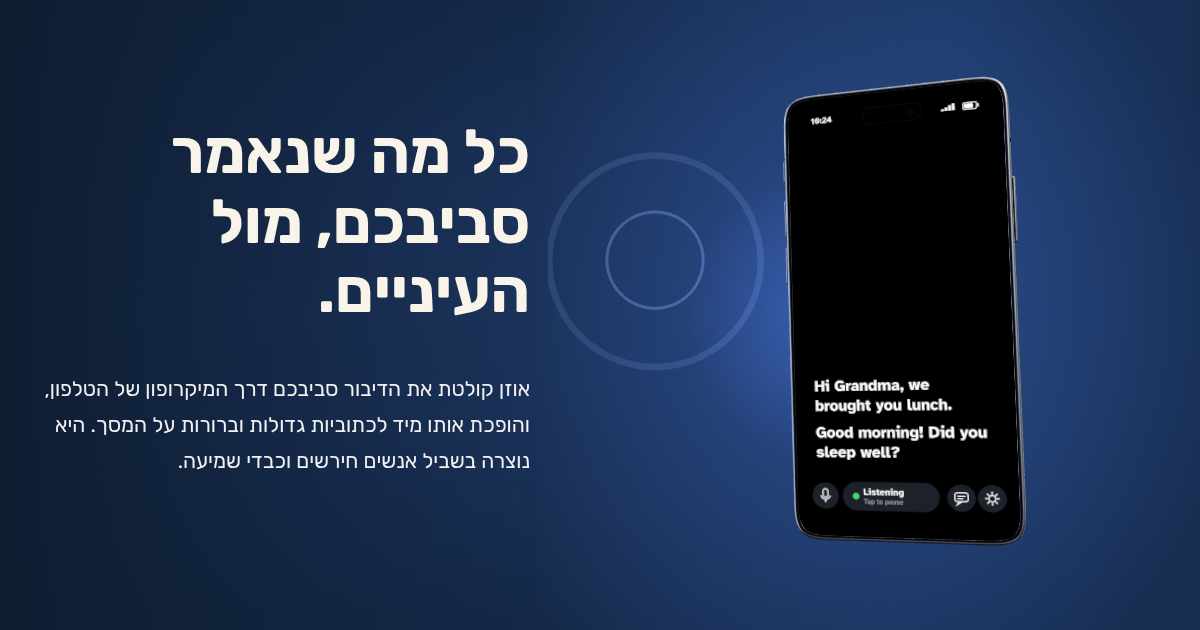
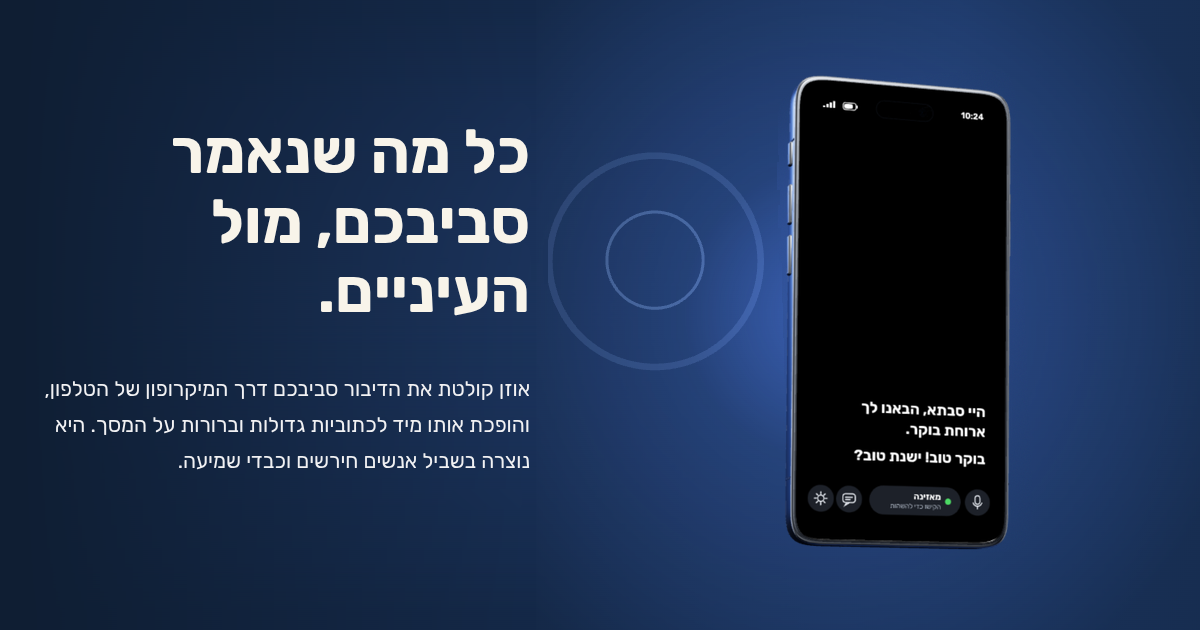
Share cards: the phone says breakfast, and the Hebrew card shows the Hebrew phone

Changed region(s): [[0.6475, 0.1206, 0.8633, 0.8746]]

diff --git a/js/stage.js b/js/stage.js
@@ -38,7 +38,7 @@ const WIDE = window.matchMedia('(min-aspect-ratio: 1/1) and (min-width: 37.5rem)
 const asset = (path) => new URL(`../${path}`, import.meta.url).href;
 const phoneAbort = new AbortController();
 const phoneBytes = 'WebGL2RenderingContext' in window
-  ? fetch(asset('models/phone.glb?v=202611092212'), { signal: phoneAbort.signal }).then((r) => (r.ok ? r.arrayBuffer() : Promise.reject(new Error(`phone.glb ${r.status}`))))
+  ? fetch(asset('models/phone.glb?v=202611092347'), { signal: phoneAbort.signal }).then((r) => (r.ok ? r.arrayBuffer() : Promise.reject(new Error(`phone.glb ${r.status}`))))
   : Promise.reject(new Error('no WebGL 2'));
 phoneBytes.catch(() => {});
 
@@ -928,7 +928,7 @@ if (poster && !WIDE.matches && window.scrollY < 40) {
   placePoster();
   window.addEventListener('resize', placePoster);
   const picture = new Image();
-  picture.src = asset(HE ? 'models/poster-he.webp?v=202611092212' : 'models/poster-en.webp?v=202611092212');
+  picture.src = asset(HE ? 'models/poster-he.webp?v=202611092347' : 'models/poster-en.webp?v=202611092347');
   picture.decode().then(() => {
     if (!stage.classList.contains('ready')) stage.classList.add('poster');
   }, () => {});
@@ -987,8 +987,8 @@ function canvasScreenMaterial(map) {
 async function loadPhone(screenTexture) {
   const loader = new THREE.TextureLoader();
   const [backColour, backRough, gltf] = await Promise.all([
-    loader.loadAsync(asset('models/back-colour.jpg?v=202611092212')),
-    loader.loadAsync(asset('models/back-rough.png?v=202611092212')),
+    loader.loadAsync(asset('models/back-colour.jpg?v=202611092347')),
+    loader.loadAsync(asset('models/back-rough.png?v=202611092347')),
     phoneBytes.then((bytes) => new GLTFLoader().parseAsync(bytes, '')),
   ]);
   backColour.colorSpace = THREE.SRGBColorSpace;
@@ -1064,7 +1064,7 @@ function studioEnvironment() {
 }
 
 async function loadLaptop(texture) {
-  const gltf = await new GLTFLoader().loadAsync(asset('models/laptop.glb?v=202611092212'));
+  const gltf = await new GLTFLoader().loadAsync(asset('models/laptop.glb?v=202611092347'));
   const Mat = TOUCH ? THREE.MeshStandardMaterial : THREE.MeshPhysicalMaterial;
   const mats = {
     Alu: new Mat({ color: 0xc3c9d2, metalness: 1, roughness: 0.3 }),

diff --git a/he/index.html b/he/index.html
@@ -35,11 +35,11 @@
 <link rel="modulepreload" href="../vendor/three.module.min.js">
 <link rel="modulepreload" href="../vendor/GLTFLoader.js">
 <link rel="modulepreload" href="../vendor/BufferGeometryUtils.js">
-<link rel="preload" href="../models/poster-he.webp?v=202611092212" as="image" media="not all and (min-aspect-ratio: 1/1) and (min-width: 37.5rem)" fetchpriority="high">
-<link rel="preload" href="../models/back-colour.jpg?v=202611092212" as="image" crossorigin>
-<link rel="preload" href="../models/back-rough.png?v=202611092212" as="image" crossorigin>
-<link rel="stylesheet" href="../css/site.css?v=202611092212">
-<script type="module" src="../js/stage.js?v=202611092212"></script>
+<link rel="preload" href="../models/poster-he.webp?v=202611092347" as="image" media="not all and (min-aspect-ratio: 1/1) and (min-width: 37.5rem)" fetchpriority="high">
+<link rel="preload" href="../models/back-colour.jpg?v=202611092347" as="image" crossorigin>
+<link rel="preload" href="../models/back-rough.png?v=202611092347" as="image" crossorigin>
+<link rel="stylesheet" href="../css/site.css?v=202611092347">
+<script type="module" src="../js/stage.js?v=202611092347"></script>
 </head>
 <body>
 <a class="skip-link" href="#main">דילוג לתוכן</a>

diff --git a/index.html b/index.html
@@ -35,11 +35,11 @@
 <link rel="modulepreload" href="vendor/three.module.min.js">
 <link rel="modulepreload" href="vendor/GLTFLoader.js">
 <link rel="modulepreload" href="vendor/BufferGeometryUtils.js">
-<link rel="preload" href="models/poster-en.webp?v=202611092212" as="image" media="not all and (min-aspect-ratio: 1/1) and (min-width: 37.5rem)" fetchpriority="high">
-<link rel="preload" href="models/back-colour.jpg?v=202611092212" as="image" crossorigin>
-<link rel="preload" href="models/back-rough.png?v=202611092212" as="image" crossorigin>
-<link rel="stylesheet" href="css/site.css?v=202611092212">
-<script type="module" src="js/stage.js?v=202611092212"></script>
+<link rel="preload" href="models/poster-en.webp?v=202611092347" as="image" media="not all and (min-aspect-ratio: 1/1) and (min-width: 37.5rem)" fetchpriority="high">
+<link rel="preload" href="models/back-colour.jpg?v=202611092347" as="image" crossorigin>
+<link rel="preload" href="models/back-rough.png?v=202611092347" as="image" crossorigin>
+<link rel="stylesheet" href="css/site.css?v=202611092347">
+<script type="module" src="js/stage.js?v=202611092347"></script>
 </head>
 <body>
 <a class="skip-link" href="#main">Skip to content</a>

diff --git a/404.html b/404.html
@@ -15,7 +15,7 @@
 <link rel="apple-touch-icon" href="/apple-touch-icon.png">
 <link rel="preload" href="/fonts/Rubik-latin.woff2" as="font" type="font/woff2" crossorigin>
 <link rel="preload" href="/fonts/AtkinsonHyperlegible-400-latin.woff2" as="font" type="font/woff2" crossorigin>
-<link rel="stylesheet" href="/css/site.css?v=202611092212">
+<link rel="stylesheet" href="/css/site.css?v=202611092347">
 </head>
 <body class="doc-page">
 <a class="skip-link" href="#main">Skip to content</a>

diff --git a/accessibility.html b/accessibility.html
@@ -27,7 +27,7 @@
 <link rel="apple-touch-icon" href="/apple-touch-icon.png">
 <link rel="preload" href="fonts/Rubik-latin.woff2" as="font" type="font/woff2" crossorigin>
 <link rel="preload" href="fonts/AtkinsonHyperlegible-400-latin.woff2" as="font" type="font/woff2" crossorigin>
-<link rel="stylesheet" href="css/site.css?v=202611092212">
+<link rel="stylesheet" href="css/site.css?v=202611092347">
 </head>
 <body class="doc-page">
 <a class="skip-link" href="#main">Skip to content</a>

diff --git a/cookies.html b/cookies.html
@@ -27,7 +27,7 @@
 <link rel="apple-touch-icon" href="/apple-touch-icon.png">
 <link rel="preload" href="fonts/Rubik-latin.woff2" as="font" type="font/woff2" crossorigin>
 <link rel="preload" href="fonts/AtkinsonHyperlegible-400-latin.woff2" as="font" type="font/woff2" crossorigin>
-<link rel="stylesheet" href="css/site.css?v=202611092212">
+<link rel="stylesheet" href="css/site.css?v=202611092347">
 </head>
 <body class="doc-page">
 <a class="skip-link" href="#main">Skip to content</a>

diff --git a/licenses.html b/licenses.html
@@ -27,7 +27,7 @@
 <link rel="apple-touch-icon" href="/apple-touch-icon.png">
 <link rel="preload" href="fonts/Rubik-latin.woff2" as="font" type="font/woff2" crossorigin>
 <link rel="preload" href="fonts/AtkinsonHyperlegible-400-latin.woff2" as="font" type="font/woff2" crossorigin>
-<link rel="stylesheet" href="css/site.css?v=202611092212">
+<link rel="stylesheet" href="css/site.css?v=202611092347">
 </head>
 <body class="doc-page">
 <a class="skip-link" href="#main">Skip to content</a>

diff --git a/privacy.html b/privacy.html
@@ -27,7 +27,7 @@
 <link rel="apple-touch-icon" href="/apple-touch-icon.png">
 <link rel="preload" href="fonts/Rubik-latin.woff2" as="font" type="font/woff2" crossorigin>
 <link rel="preload" href="fonts/AtkinsonHyperlegible-400-latin.woff2" as="font" type="font/woff2" crossorigin>
-<link rel="stylesheet" href="css/site.css?v=202611092212">
+<link rel="stylesheet" href="css/site.css?v=202611092347">
 </head>
 <body class="doc-page">
 <a class="skip-link" href="#main">Skip to content</a>

diff --git a/terms.html b/terms.html
@@ -27,7 +27,7 @@
 <link rel="apple-touch-icon" href="/apple-touch-icon.png">
 <link rel="preload" href="fonts/Rubik-latin.woff2" as="font" type="font/woff2" crossorigin>
 <link rel="preload" href="fonts/AtkinsonHyperlegible-400-latin.woff2" as="font" type="font/woff2" crossorigin>
-<link rel="stylesheet" href="css/site.css?v=202611092212">
+<link rel="stylesheet" href="css/site.css?v=202611092347">
 </head>
 <body class="doc-page">
 <a class="skip-link" href="#main">Skip to content</a>

diff --git a/he/accessibility.html b/he/accessibility.html
@@ -26,7 +26,7 @@
 <link rel="icon" href="/icon-192.png" type="image/png" sizes="192x192">
 <link rel="apple-touch-icon" href="/apple-touch-icon.png">
 <link rel="preload" href="../fonts/Rubik-hebrew.woff2" as="font" type="font/woff2" crossorigin>
-<link rel="stylesheet" href="../css/site.css?v=202611092212">
+<link rel="stylesheet" href="../css/site.css?v=202611092347">
 </head>
 <body class="doc-page">
 <a class="skip-link" href="#main">דילוג לתוכן</a>

diff --git a/he/cookies.html b/he/cookies.html
@@ -26,7 +26,7 @@
 <link rel="icon" href="/icon-192.png" type="image/png" sizes="192x192">
 <link rel="apple-touch-icon" href="/apple-touch-icon.png">
 <link rel="preload" href="../fonts/Rubik-hebrew.woff2" as="font" type="font/woff2" crossorigin>
-<link rel="stylesheet" href="../css/site.css?v=202611092212">
+<link rel="stylesheet" href="../css/site.css?v=202611092347">
 </head>
 <body class="doc-page">
 <a class="skip-link" href="#main">דילוג לתוכן</a>

diff --git a/he/licenses.html b/he/licenses.html
@@ -26,7 +26,7 @@
 <link rel="icon" href="/icon-192.png" type="image/png" sizes="192x192">
 <link rel="apple-touch-icon" href="/apple-touch-icon.png">
 <link rel="preload" href="../fonts/Rubik-hebrew.woff2" as="font" type="font/woff2" crossorigin>
-<link rel="stylesheet" href="../css/site.css?v=202611092212">
+<link rel="stylesheet" href="../css/site.css?v=202611092347">
 </head>
 <body class="doc-page">
 <a class="skip-link" href="#main">דילוג לתוכן</a>
